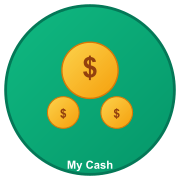
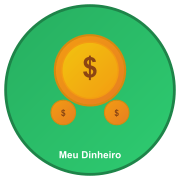
Setup: Configurar ícone personalizado oficial do sistema
- Criar ícone oficial (verde com medalha dourada) nos tamanhos corretos
- favicon.ico (32x32), icon-192.png (192x192), icon-512.png (512x512)
- apple-touch-icon.png (180x180) para iOS
- Atualizar index.html com tags corretas conforme especificação
- Configurar manifest.json com nome 'Sistema de Agendamento Clínico'
- Simplificar service worker para v6 com apenas ícones essenciais
- Preparar para deploy no Vercel com ícone personalizado

diff --git a/index.html b/index.html
@@ -38,8 +38,9 @@
     <link rel="apple-touch-icon" sizes="512x512" href="/icon-512.png" />
 
     <!-- Favicon -->
-    <link rel="icon" type="image/svg+xml" href="./icon.svg" />
-    <link rel="icon" type="image/x-icon" href="./favicon.ico" />
+    <link rel="icon" type="image/png" sizes="32x32" href="/favicon.ico" />
+    <link rel="apple-touch-icon" href="/apple-touch-icon.png" />
+    <link rel="manifest" href="/manifest.json" />
 
     <meta property="og:title" content="Meu Dinheiro - Controle Financeiro Pessoal" />
     <meta property="og:description" content="App moderno para controle de finanças pessoais com interface intuitiva e gráficos claros." />

diff --git a/public/sw.js b/public/sw.js
@@ -1,17 +1,10 @@
-const CACHE_NAME = 'mycash-v5';
+const CACHE_NAME = 'mycash-v6';
 const urlsToCache = [
   '/',
   '/manifest.json',
-  '/icon-72.png',
-  '/icon-96.png',
-  '/icon-128.png',
-  '/icon-144.png',
-  '/icon-152.png',
   '/icon-192.png',
-  '/icon-384.png',
   '/icon-512.png',
   '/apple-touch-icon.png',
-  '/browserconfig.xml',
   '/favicon.ico'
 ];
 
